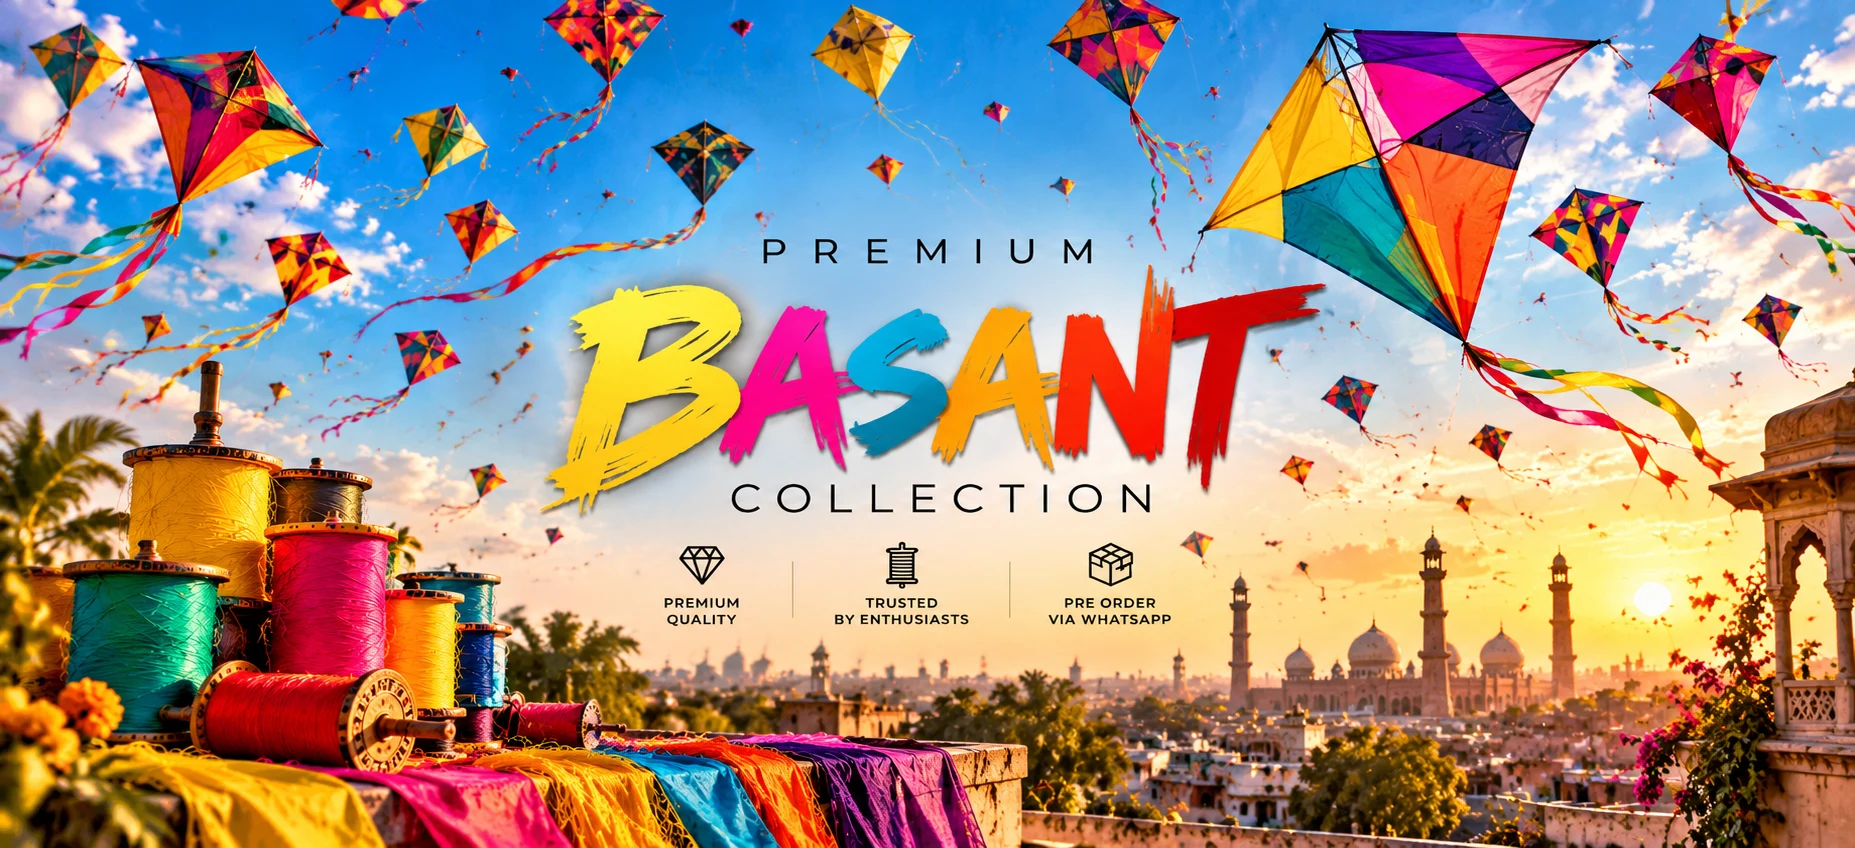
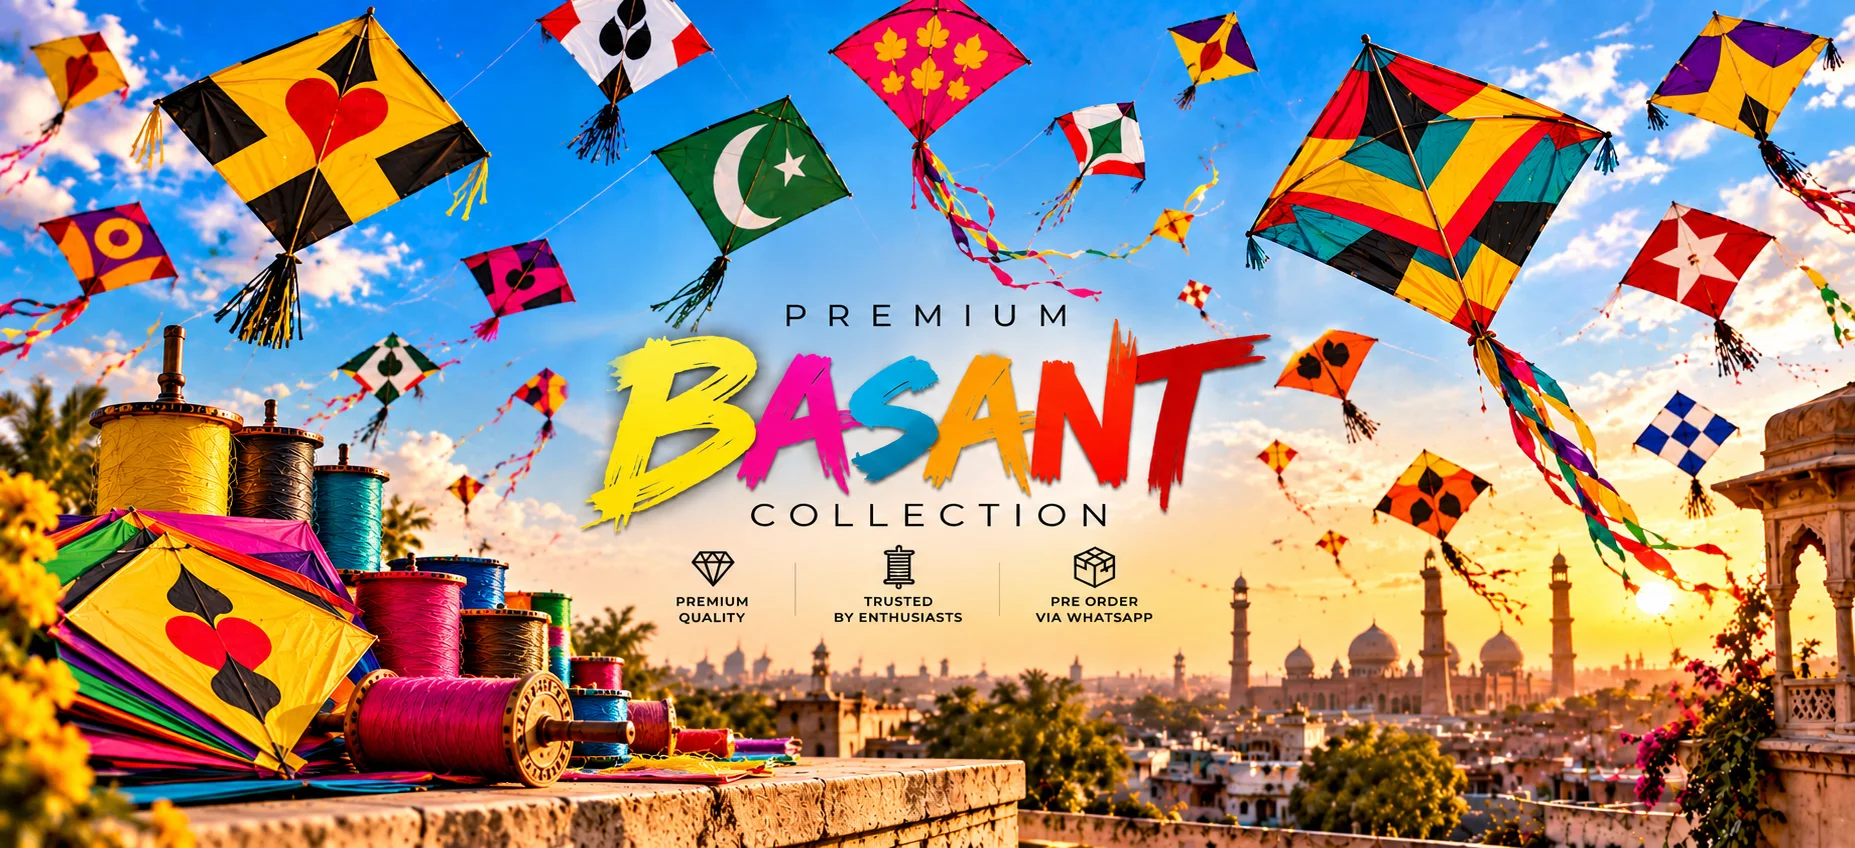
Update Basant campaign assets and styling
Replit-Commit-Author: Agent

diff --git a/artifacts/basant-landing/src/App.tsx b/artifacts/basant-landing/src/App.tsx
@@ -139,7 +139,7 @@ function App() {
     <div className="announcement" aria-label="Basant season. Celebrate in full color."><div className="announce-track marquee-track" aria-hidden="true">{Array.from({ length: 4 }, (_, index) => <span className="announce-unit" key={index}>BASANT SEASON <i>✦</i> LAHORE IN FULL COLOR <i>✦</i></span>)}</div></div>
     <Header />
     <main>
-      <section className="hero hero-banner" aria-labelledby="hero-title"><h1 className="visually-hidden" id="hero-title">Premium Basant Collection — URR Lahore</h1><div className="hero-banner-frame"><img className="hero-banner-image" src="/basant-campaign-banner.webp" alt="Premium Basant Collection banner with colorful kites above Lahore rooftops and kite-string spools" fetchPriority="high" /><DecorativeKite className="banner-kite-one" color="#F1257A" secondColor="#FFCC00" size={38} /><DecorativeKite className="banner-kite-two" color="#06B6D4" secondColor="#FF5733" size={47} /></div><div className="hero-banner-actions"><p>URR LAHORE <span>/ BASANT 2026</span></p><div className="hero-banner-links"><a className="button button-dark" href="#collection">EXPLORE THE COLLECTION <ArrowDownRight size={17} /></a><a className="button hero-banner-secondary" href="#feeling">DISCOVER THE STORY <ArrowRight size={16} /></a></div></div></section>
+      <section className="hero hero-banner" aria-labelledby="hero-title"><h1 className="visually-hidden" id="hero-title">Premium Basant Collection — URR Lahore</h1><div className="hero-banner-frame"><picture className="hero-banner-picture"><source media="(max-width: 700px)" srcSet="/basant-campaign-banner-mobile.webp" type="image/webp" /><img className="hero-banner-image" src="/basant-campaign-banner.webp" alt="Premium Basant Collection banner with colorful kites above Lahore rooftops and kite-string spools" fetchPriority="high" /></picture><DecorativeKite className="banner-kite-one" color="#F1257A" secondColor="#FFCC00" size={38} /><DecorativeKite className="banner-kite-two" color="#06B6D4" secondColor="#FF5733" size={47} /></div><div className="hero-banner-actions"><p>URR LAHORE <span>/ BASANT 2026</span></p><div className="hero-banner-links"><a className="button button-dark" href="#collection">EXPLORE THE COLLECTION <ArrowDownRight size={17} /></a><a className="button hero-banner-secondary" href="#feeling">DISCOVER THE STORY <ArrowRight size={16} /></a></div></div></section>
       <div className="ticker" aria-label="Basant. Lahore. Sky full of color."><div className="ticker-track marquee-track" aria-hidden="true">{Array.from({ length: 4 }, (_, index) => <span className="ticker-unit" key={index}>BASANT <i>✳</i> LAHORE <b>✦</b> SKY FULL OF COLOR <i>✳</i></span>)}</div></div>
       <section className="collection section-pad" id="collection" aria-labelledby="collection-title"><DecorativeKite className="collection-kite kite-pop" color="#F1257A" secondColor="#FFCC00" size={46} /><div className="section-heading reveal"><div><p className="eyebrow"><span className="eyebrow-mark">02</span> THE COLLECTION</p><h2 className="heading" id="collection-title">THE BASANT COLLECTION</h2></div><p className="section-intro">Made for the season. Reserved for the celebration.</p></div><div className="product-grid">{PRODUCTS.map((product, index) => <ProductCard key={product.id} product={product} index={index + 1} onUnavailable={() => setNotice(`WhatsApp pre-orders are not available yet. ${WHATSAPP_PLACEHOLDER}.`)} />)}</div><div className="collection-note reveal"><span className="note-stamp sale-font">MADE<br />FOR SKY</span><p>Message us on WhatsApp to confirm prices and availability for items in this collection.</p><span className="note-doodle"><Wind size={29} /></span></div></section>
       {featured && <section className="featured-section" aria-labelledby="featured-title"><DecorativeKite className="featured-kite" color="#06B6D4" secondColor="#FF5733" size={48} /><div className="featured-art reveal"><ProductArtwork product={featured} /><span className="featured-stamp sale-font">A CLOSER<br />LOOK</span></div><div className="featured-copy reveal"><p className="eyebrow"><span className="eyebrow-mark">FEATURED / BASANT COLLECTION</span></p><h2 className="heading" id="featured-title">{featured.name}</h2><p>{featured.description}</p><p className="featured-details">Confirm current details and availability through WhatsApp.</p><div className="featured-actions"><WhatsAppButton message={productWhatsAppMessage(featured.name)} onUnavailable={() => setNotice(`WhatsApp pre-orders are not available yet. ${WHATSAPP_PLACEHOLDER}.`)}>PRE-ORDER ON WHATSAPP</WhatsAppButton></div></div></section>}

diff --git a/artifacts/basant-landing/src/index.css b/artifacts/basant-landing/src/index.css
@@ -623,7 +623,9 @@
 .hero.hero-banner { padding-top:124px; }
 .hero-banner h1.visually-hidden { position:absolute; }
 .hero-banner-frame { position:relative; isolation:isolate; width:100%; max-width:1920px; margin:0 auto; overflow:hidden; background:#56b5ee; }
+.hero-banner-picture { display:block; width:100%; }
 .hero-banner-image { display:block; width:100%; height:auto; }
+.hero-banner-frame .banner-kite-one,.hero-banner-frame .banner-kite-two { display:none; }
 .hero-banner-frame .ambient-kite { z-index:3; opacity:1; }
 .banner-kite-one { top:8%; left:8%; animation-duration:6.5s; }
 .banner-kite-two { top:39%; right:5%; animation-duration:8s; animation-delay:-2.5s; }
